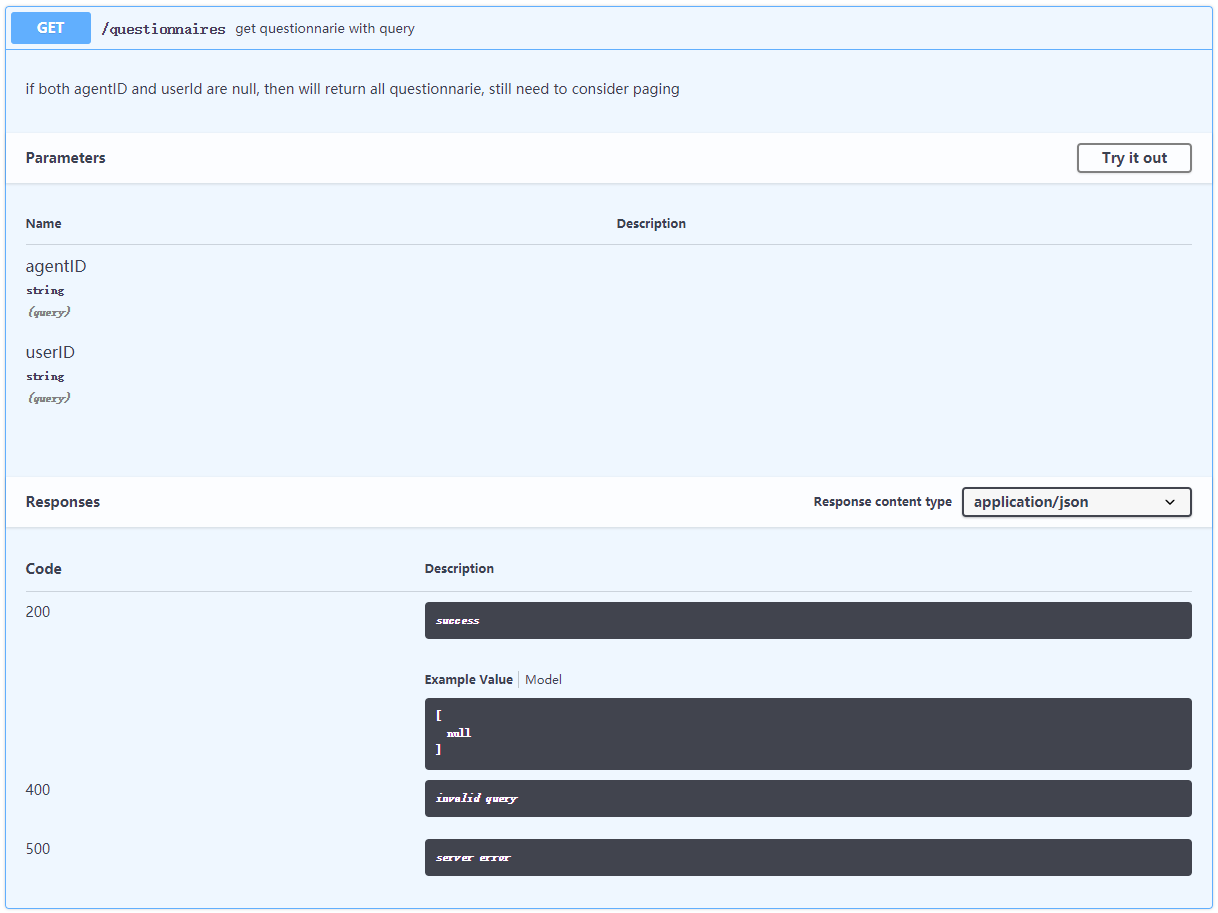
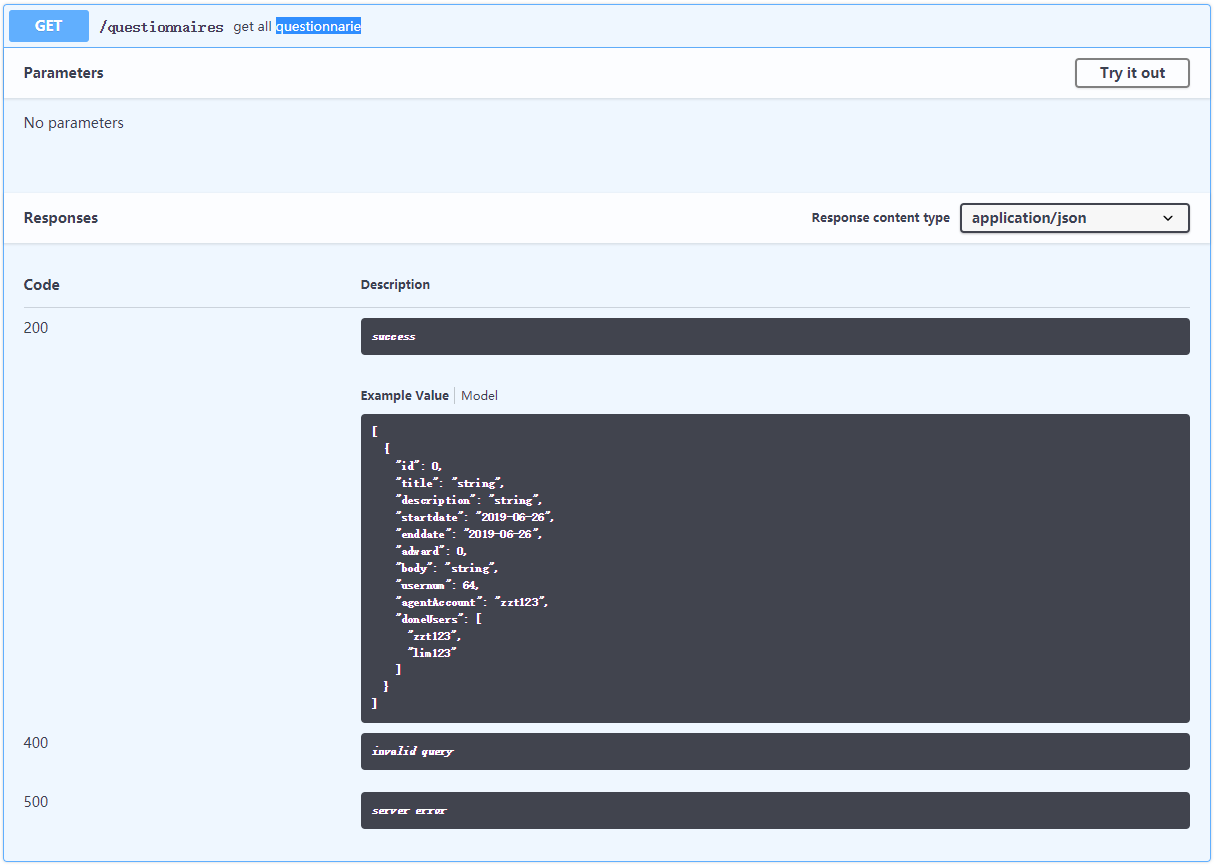
update 问卷 API

diff --git a/SD.md b/SD.md
@@ -53,7 +53,7 @@ v1.2|2019.6.23|完成模块设计、更新API设计|章恒
     ![](pics/API/API13.png)
     ![](pics/API/API14.png)
 
-**Questionnaire**
+**Questionnaires**
 - 数据结构
 
     ![](pics/API/Model6.png)
@@ -62,7 +62,10 @@ v1.2|2019.6.23|完成模块设计、更新API设计|章恒
     ![](pics/API/API15.png)
     ![](pics/API/API16.png)
     ![](pics/API/API17.png)
-
+    ![](pics/API/API18.png)
+    ![](pics/API/API19.png)
+    ![](pics/API/API20.png)
+    ![](pics/API/API21.png)
 
 **Error**
 - 数据结构
@@ -70,7 +73,7 @@ v1.2|2019.6.23|完成模块设计、更新API设计|章恒
     ![](pics/API/Model5.png)
 
 ---
-### 4. 技术选型理由
+### 4. 技术选型及理由
 
 ---
 ### 5. Architecture design（架构设计）
@@ -81,3 +84,5 @@ v1.2|2019.6.23|完成模块设计、更新API设计|章恒
 
 ---
 ### 7. 软件设计技术
+
+
